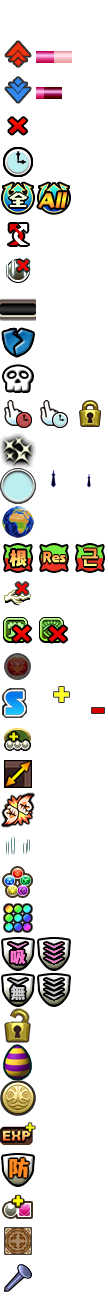
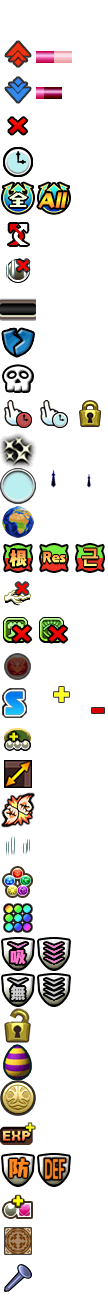
解决英文下没有盾图标的问题，十字心合并错误的问题

Changed region(s): [[0.3333, 0.8642, 0.6667, 0.9259]]

diff --git a/script-skill-parser.js b/script-skill-parser.js
@@ -1130,7 +1130,7 @@ const parsers = {
 	[150](_, mul) { return powerUp(null, null, p.mul({ atk: mul }), c.exact('match-length', 5, 'enhanced')); },
 	[151](mul1, mul2, percent) {
 	  return [
-		powerUp(null, null, p.scaleCross([{ single: true, attr: Attributes.Heart, atk: mul1, rcv: mul2 }]), null, v.percent(percent)),
+		powerUp(null, null, p.scaleCross([{ single: true, attr: [Attributes.Heart], atk: mul1 || 100, rcv: mul2 || 100 }]), null, v.percent(percent)),
 	  ];
 	},
 	[152](attrs, count) { return setOrbState(flags(attrs), 'locked', {count: v.constant(count)}); },
@@ -1155,15 +1155,6 @@ const parsers = {
 			{ single: false, attr: [attr2], atk: mul2 },
 			{ single: false, attr: [attr3], atk: mul3 }
 		].filter(cross => cross.atk);
-		
-		/*if (crosses.length >= 2 && crosses.every(cross => cross.atk === crosses[0].atk)) {
-			//所有值一样
-			crosses.reduce((pre,cur)=>{
-				pre.attr = pre.attr.concat(cur.attr);
-				return pre
-			});
-			crosses = [crosses[0]];
-		}*/
 	  	return powerUp(null, null, p.scaleCross(crosses));
 	},
 	[158](len, attrs, types, atk, hp, rcv) {
@@ -1328,7 +1319,7 @@ const parsers = {
 		];
 	},
 	[209](combo) {
-		return powerUp(null, null, p.scaleCross([{ single: true, attr: Attributes.Heart, atk: 100, rcv: 100}]), null, null, [addCombo(combo)]);
+		return powerUp(null, null, p.scaleCross([{ single: true, attr: [Attributes.Heart], atk: 100, rcv: 100}]), null, null, [addCombo(combo)]);
 	},
 	[210](attrs, _, combo) {
 		return powerUp(null, null, p.scaleCross([{ single: false, attr: flags(attrs), atk: 100, rcv: 100}]), null, null, [addCombo(combo)]);

diff --git a/languages/en.js b/languages/en.js
@@ -82,7 +82,7 @@
 			rate_multiply_drop: tp`${'icon'}Drop rate`,
 			rate_multiply_coin: tp`${'icon'}Coins`,
 			rate_multiply_exp: tp`${'icon'}Rank EXP`,
-			reduce_damage: tp`${'condition'}Reduces${'attrs'} damage taken by ${'value'}`,
+			reduce_damage: tp`${'condition'}${'icon'}Reduces${'attrs'} damage taken by ${'value'}`,
 			power_up: tp`${'condition'}${'targets'}${'value'}${'reduceDamage'}${'addCombo'}${'followAttack'}`,
 			power_up_targets: tp`${'attrs'}${'types'}'s `,
             henshin: tp`Transforms into ${'card'}`,

diff --git a/languages/icon-en.css b/languages/icon-en.css
@@ -27,6 +27,10 @@
 {
     background-position-x: -20px;
 }
-.icon-skill[data-icon-type="mass-attack"] {
+.icon-skill[data-icon-type="mass-attack"],
+.icon-skill[data-icon-type="reduce-damage"],
+.icon-skill[data-icon-type="damage-absorb"],
+.icon-skill[data-icon-type="damage-void"]
+{
     background-position-x: calc(-36px * 1);
 }
